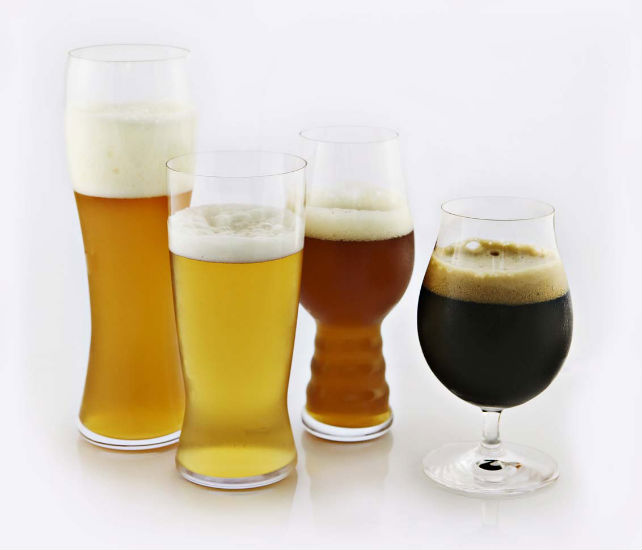
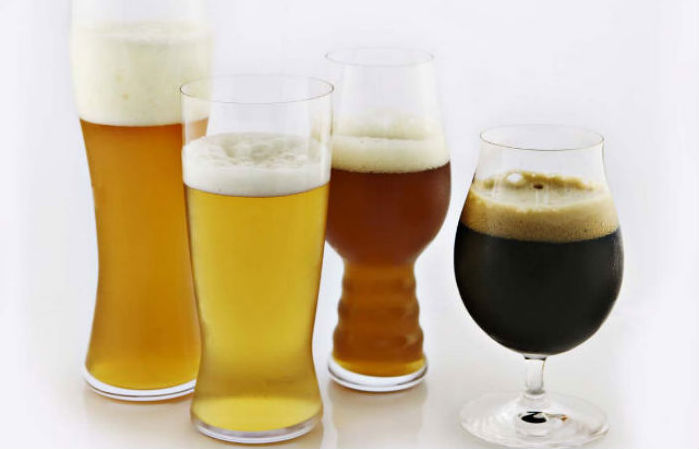
Style adjustments

diff --git a/app/assets/stylesheets/master.css.scss b/app/assets/stylesheets/master.css.scss
@@ -132,8 +132,11 @@ blockquote p {
 }
 
 .carousel-inner > .item > img, .carousel-inner > .item > a > img {
-	max-height: 550px;
-	width: 100%;
+	max-height: 600px;
+	border: 3px #fff;
+	width: 80%;
+	margin-left: auto;
+	margin-right: auto;
 }
 
 .carousel-caption {

diff --git a/config/environments/development.rb b/config/environments/development.rb
@@ -2,15 +2,15 @@ Nomster::Application.configure do
   config.action_mailer.default_url_options = { :host => 'localhost:3030' }
   # config.action_mailer.delivery_method = :smtp
 
-   config.action_mailer.smtp_settings = {
-    address: "smtp.gmail.com",
-    port: 587,
-    domain: "example.com",
-    authentication: "plain",
-    enable_starttls_auto: true,
-    user_name: ENV['GMAIL_ADDRESS'],
-    password: ENV['GMAIL_PASSWORD']
-   }
+   # config.action_mailer.smtp_settings = {
+   #  address: "smtp.gmail.com",
+   #  port: 587,
+   #  domain: "example.com",
+   #  authentication: "plain",
+   #  enable_starttls_auto: true,
+   #  user_name: ENV['GMAIL_ADDRESS'],
+   #  password: ENV['GMAIL_PASSWORD']
+   # }
   # Settings specified here will take precedence over those in config/application.rb.
 
   # In the development environment your application's code is reloaded on
